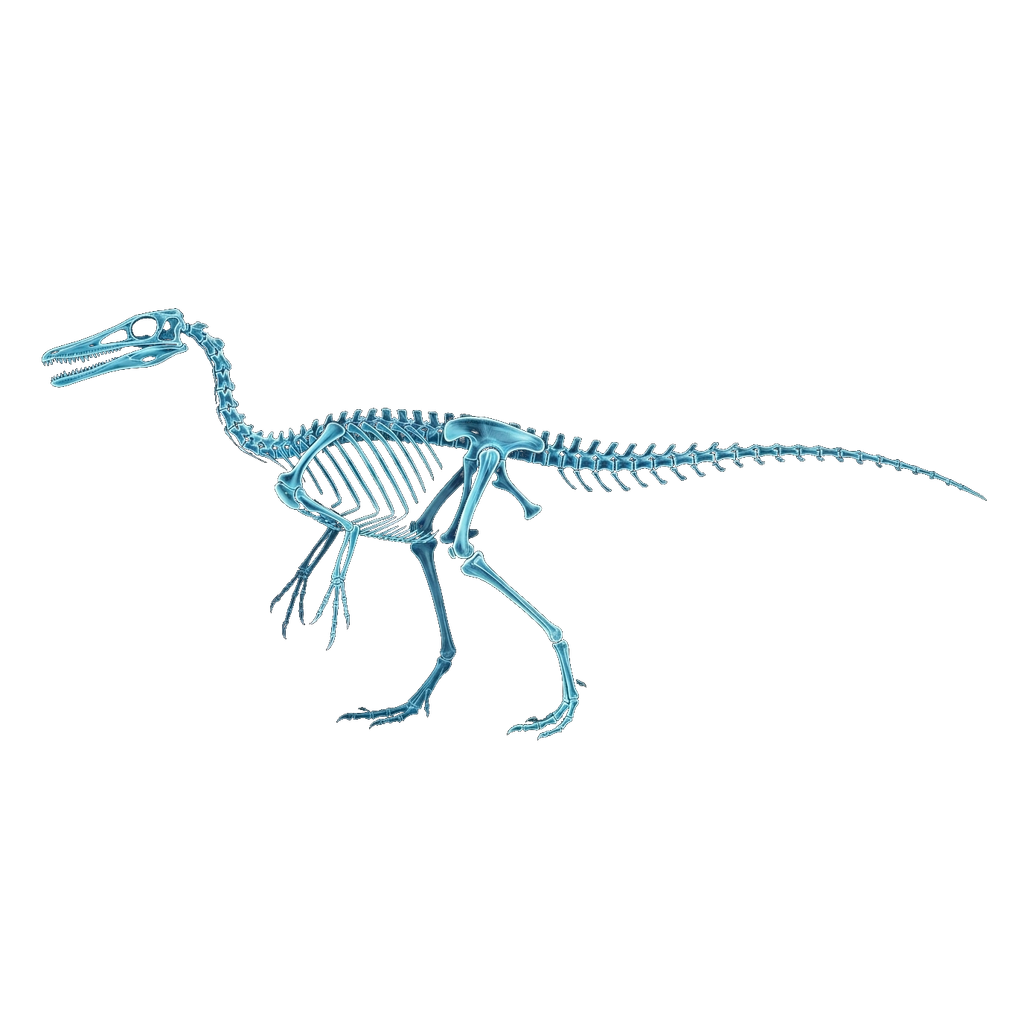
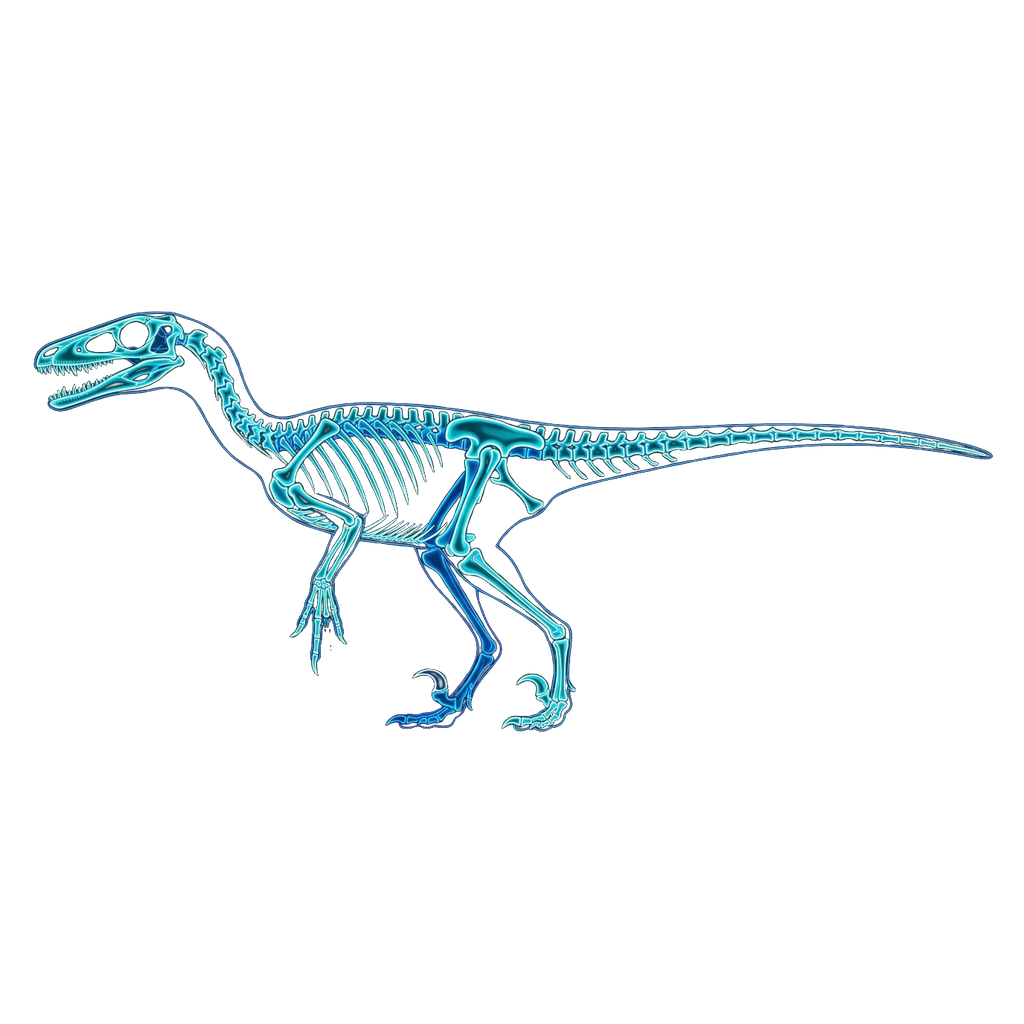
fix(content): adjust austroposeidon zoom, saurolophus crest, heterodontosaurus tusks, and natovenator sickle claws

Changed region(s): [[0.0312, 0.2812, 0.9688, 0.7188]]

diff --git a/src/content/dinosaurs/natovenator.md b/src/content/dinosaurs/natovenator.md
@@ -22,11 +22,14 @@ bioTraits:
   - trait: "多数の微小歯が密生する細長い魚食性の吻部"
     value: "水生小動物を捉える高精度ピンセット"
     detail: "鶴のように長い首と多数の鋭い微細歯が並ぶ細長い顎により、水中の小魚や甲殻類を素早く挟み捕食"
+  - trait: "後肢第2趾に保持された鋭いシックルクロー"
+    value: "ドロマエオサウルス科の証"
+    detail: "遊泳適応を遂げつつも第2趾に持ち上がった鎌状鉤爪を温存し、水辺での足場固定や獲物の確保に寄与"
 cyberMetadata:
-  bottomGap: 283
+  bottomGap: 292
   realHeight: 0.18
   realLength: 0.45
-  contentHeightPx: 378
+  contentHeightPx: 384
   sourceRes: 1024
   dinoLeft: "0%"
   refRight: "8%"
@@ -43,7 +46,7 @@ cyberMetadata:
 
 ナトヴェナトルの成体実寸は、推定全長わずか約45センチメートル、頭頂高約18〜20センチメートル、推定体重は約500グラム前後の、現代のオシドリやカイツブリ、アビと同等の極小サイズでした。獰猛な巨大肉食恐竜が闊歩した白亜紀後期の恐竜界において、手のひらから前腕に乗るほどの可憐なスケール感は、恐竜の生態的適応の途方もない広がりを象徴しています。
 
-骨格は徹底して半水生および遊泳・潜水生活に特化していました。頭部は上下に低く細長く前方に伸長し、首は白鳥やサギのように優美なS字カーブを描いて前後に柔軟に可動しました。前肢は比較的平たく paddle状に発達しており、水中での推進力や舵取りに用いられたと考えられます。後肢も水かきを備えていた可能性が高く、陸上では鳥のように俊敏に二足歩行しつつ、水面ではアヒルのように浮かび、必要に応じて水中に完全潜行することができました。
+骨格は徹底して半水生および遊泳・潜水生活に特化していました。頭部は上下に低く細長く前方に伸長し、首は白鳥やサギのように優美なS字カーブを描いて前後に柔軟に可動しました。前肢は比較的平たくパドル状に発達しており、水中での推進力や舵取りに用いられたと考えられます。後肢も水かきを備えていた可能性が高く、陸上では鳥のように俊敏に二足歩行しつつ、水面ではアヒルのように浮かび、必要に応じて水中に完全潜行することができました。さらに後肢の第2趾には、ドロマエオサウルス科の共通祖先から受け継いだ鋭く湾曲したシックルクロー（鎌状の鉤爪）が明確に保持されており、歩行時には地面と擦れないよう上方に持ち上げられていました。この鉤爪は滑りやすい泥湿地や岩場での強力なグリップアンカーとして機能したほか、暴れる水生獲物をしっかりと押さえ込む用途にも寄与したと考えられています。
 
 ### 非鳥類恐竜で初の実証：後方に傾斜した肋骨ケージと完全流線型ボディーの秘密
 

diff --git a/src/content/dinosaurs/saurolophus.md b/src/content/dinosaurs/saurolophus.md
@@ -23,10 +23,10 @@ bioTraits:
     value: "生前の外観を伝える完全証拠"
     detail: "胴体や尾のウロコ配列や背面の正中線に沿った皮膚ヒダが克明に化石化し、生体復元の最高峰の基準を提供"
 cyberMetadata:
-  bottomGap: 290
+  bottomGap: 309
   realHeight: 3.8
   realLength: 10
-  contentHeightPx: 363
+  contentHeightPx: 349
   sourceRes: 1024
   dinoLeft: "0%"
   refRight: "8%"

diff --git a/src/content/dinosaurs/heterodontosaurus.md b/src/content/dinosaurs/heterodontosaurus.md
@@ -23,10 +23,10 @@ bioTraits:
     value: "採食効率の飛躍的向上"
     detail: "顎の外側に筋肉質の頬を備え、口から植物をこぼすことなく左右・上下の複雑な咀嚼運動を実行"
 cyberMetadata:
-  bottomGap: 307
+  bottomGap: 303
   realHeight: 0.35
   realLength: 1
-  contentHeightPx: 330
+  contentHeightPx: 332
   sourceRes: 1024
   dinoLeft: "0%"
   refRight: "8%"

diff --git a/src/content/dinosaurs/austroposeidon.md b/src/content/dinosaurs/austroposeidon.md
@@ -30,7 +30,7 @@ cyberMetadata:
   sourceRes: 1024
   dinoLeft: "0%"
   refRight: "8%"
-  zoom: 0.95
+  zoom: 1.14
 ---
 
 ### 半世紀以上の封印を破った巨星：ルエリン・プライス技師の発見と2016年の記載史
